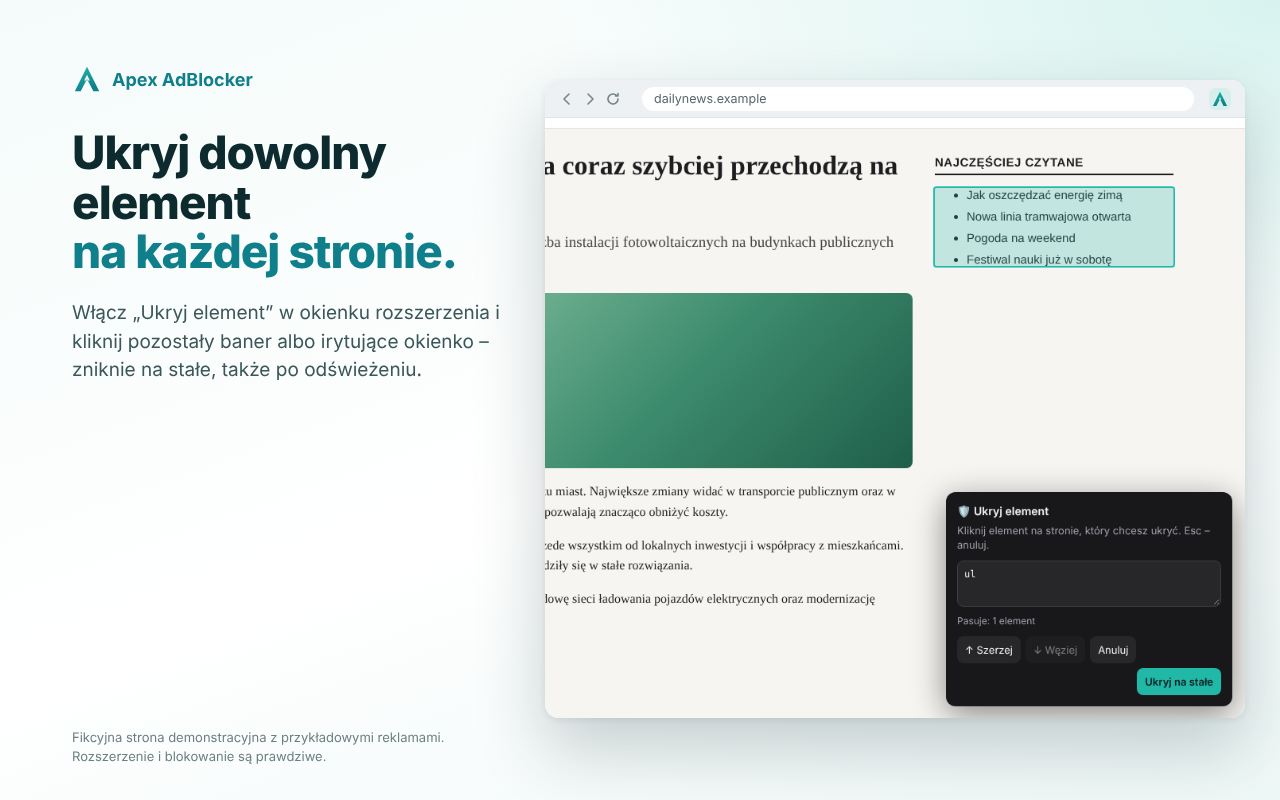
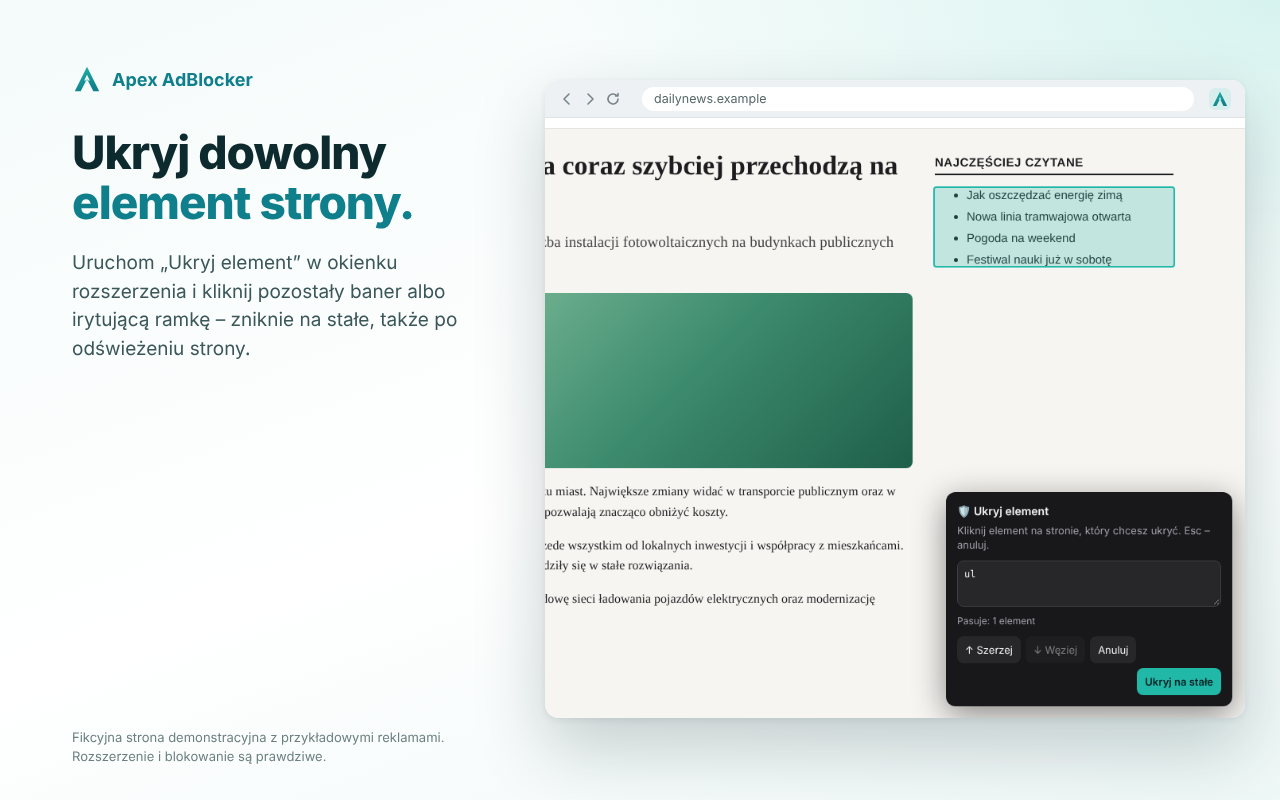
Zrzuty do sklepu: poprawna polszczyzna i ścisłe opisy
PL: „widoczny od razu” zamiast kalki „w jednym spojrzeniu”, „Prywatność
przede wszystkim / na Twoim komputerze” zamiast „od podstaw / lokalnie”,
„Z rozszerzeniem Apex AdBlocker” zamiast nieodmienionej nazwy, „Bez
zakładania konta”, bez powtórzenia „okienko”.
PL i EN: popup pokazuje liczbę zablokowanych żądań („ile”, nie „co”),
reklamy są blokowane „automatycznie” (nie „zawsze” – można wyłączyć na
stronie), „Ukryj dowolny element strony” bez obietnicy „każdej strony”.

Claude-Session: https://claude.ai/code/session_01AXd3uZjyrZuAxdnhyGVa4Y

Changed region(s): [[0.0312, 0.2188, 0.4062, 0.4688]]

diff --git a/store/README.md b/store/README.md
@@ -76,7 +76,7 @@ PROSTA OBSŁUGA
 • Własne filtry w składni uBlock Origin / Adblock Plus
 • Kopia zapasowa i przywracanie ustawień
 
-PRYWATNOŚĆ OD PODSTAW
+PRYWATNOŚĆ PRZEDE WSZYSTKIM
 Apex AdBlocker działa w całości w Twojej przeglądarce. Nie ma serwera, nie wysyła danych i nie zawiera zdalnego kodu. Ustawienia i diagnostyka są przechowywane wyłącznie lokalnie.
 
 Listy filtrów: EasyList, EasyPrivacy, uBlock filters i Polskie Filtry Reklamowe, na warunkach ich licencji.
